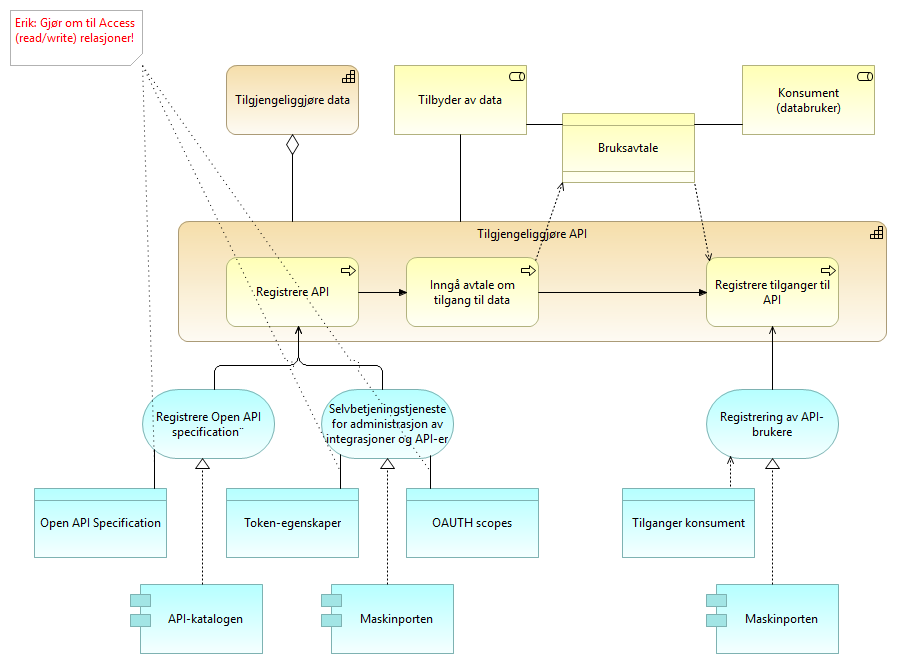
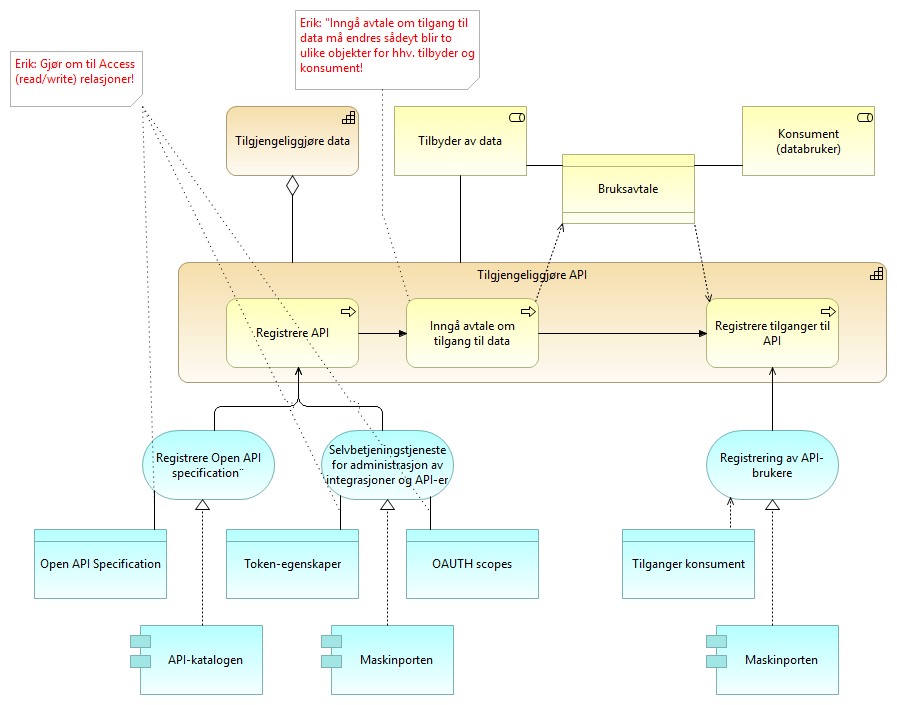
.

diff --git a/nab_modeller_html-hovedbibliotek/e7e6c527-26f4-461c-b4dd-651fcbe85c8d/views/80c1baa6-55d8-4434-ab14-55e2d0afa827.html b/nab_modeller_html-hovedbibliotek/e7e6c527-26f4-461c-b4dd-651fcbe85c8d/views/80c1baa6-55d8-4434-ab14-55e2d0afa827.html
@@ -34,26 +34,27 @@
 		    <!-- If this is a digram model (has children and no bounds) show the image -->
 			   <img class="diagram" src="../images/80c1baa6-55d8-4434-ab14-55e2d0afa827.png" alt="Etablere API i maskinporten SBB" usemap="#80c1baa6-55d8-4434-ab14-55e2d0afa827map"/>
 			   <map name="80c1baa6-55d8-4434-ab14-55e2d0afa827map">
-				  		<area shape="rect" coords="394,65,527,135" href="../elements/9fa622a6-945e-4e85-815f-d38a47a3459d.html"  target="element">
-				  		<area shape="rect" coords="742,65,875,135" href="../elements/ba734a82-6ccd-4627-9717-baef9900ae13.html"  target="element">
-				  		<area shape="rect" coords="562,113,695,183" href="../elements/3797e3fd-6fa2-4d70-ac19-faddd5065e87.html"  target="element">
-				  		<area shape="rect" coords="142,389,275,459" href="../elements/fc699973-2737-4319-ae75-9839ceb74181.html"  target="element">
-				  		<area shape="rect" coords="706,584,839,654" href="../elements/d242a840-0fa2-4f8d-997c-2298194f1c4a.html"  target="element">
-				  		<area shape="rect" coords="321,389,454,459" href="../elements/7e04dd29-d1b6-420b-96cb-d26eaf784083.html"  target="element">
-				  		<area shape="rect" coords="706,389,839,459" href="../elements/c43f2df1-ab1e-4b8a-8230-f96fe1375cfc.html"  target="element">
-				  		<area shape="rect" coords="130,584,263,654" href="../elements/38606b9d-5fdf-4dff-9839-5e1d03107b99.html"  target="element">
-				  				<area shape="rect" coords="226,257,359,327" href="../elements/401e79ba-83e5-4aec-9f55-66e228109fbd.html"  target="element">
-				  				<area shape="rect" coords="706,257,839,327" href="../elements/d67047b1-ac0f-406a-b26b-00c5126bb154.html"  target="element">
-				  				<area shape="rect" coords="406,257,539,327" href="../elements/bb9600f7-587d-423e-85a3-4215e45f09e4.html"  target="element">
+				  		<area shape="rect" coords="394,106,527,176" href="../elements/9fa622a6-945e-4e85-815f-d38a47a3459d.html"  target="element">
+				  		<area shape="rect" coords="742,106,875,176" href="../elements/ba734a82-6ccd-4627-9717-baef9900ae13.html"  target="element">
+				  		<area shape="rect" coords="562,154,695,224" href="../elements/3797e3fd-6fa2-4d70-ac19-faddd5065e87.html"  target="element">
+				  		<area shape="rect" coords="142,430,275,500" href="../elements/fc699973-2737-4319-ae75-9839ceb74181.html"  target="element">
+				  		<area shape="rect" coords="706,625,839,695" href="../elements/d242a840-0fa2-4f8d-997c-2298194f1c4a.html"  target="element">
+				  		<area shape="rect" coords="321,430,454,500" href="../elements/7e04dd29-d1b6-420b-96cb-d26eaf784083.html"  target="element">
+				  		<area shape="rect" coords="706,430,839,500" href="../elements/c43f2df1-ab1e-4b8a-8230-f96fe1375cfc.html"  target="element">
+				  		<area shape="rect" coords="130,625,263,695" href="../elements/38606b9d-5fdf-4dff-9839-5e1d03107b99.html"  target="element">
+				  				<area shape="rect" coords="226,298,359,368" href="../elements/401e79ba-83e5-4aec-9f55-66e228109fbd.html"  target="element">
+				  				<area shape="rect" coords="706,298,839,368" href="../elements/d67047b1-ac0f-406a-b26b-00c5126bb154.html"  target="element">
+				  				<area shape="rect" coords="406,298,539,368" href="../elements/bb9600f7-587d-423e-85a3-4215e45f09e4.html"  target="element">
 
-				  		<area shape="rect" coords="178,221,887,342" href="../elements/eecb9abf-d38f-48b3-92fc-2e91c1f73274.html"  target="element">
-				  		<area shape="rect" coords="226,65,359,135" href="../elements/b2629945-0e02-4008-8db4-d6cc7f8d34a3.html"  target="element">
-				  		<area shape="rect" coords="226,488,359,558" href="../elements/a609d863-ca5c-4cc8-896b-aba92c4a5786.html"  target="element">
-				  		<area shape="rect" coords="406,488,539,558" href="../elements/743ee89e-49b3-4b4b-b93b-c7e6f4e0700f.html"  target="element">
-				  		<area shape="rect" coords="622,488,755,558" href="../elements/fe0abe56-0a07-400f-86de-ea57a0f8079b.html"  target="element">
-				  		<area shape="rect" coords="34,488,167,558" href="../elements/90106e3a-d9f4-4817-ab38-473efc7f1aac.html"  target="element">
-				          <area shape="rect" coords="10,10,143,66" href="../objects/48e0c3bf-d94d-483a-9438-36f710e90a9c.html" target="element" >
-				  		<area shape="rect" coords="321,584,454,654" href="../elements/d242a840-0fa2-4f8d-997c-2298194f1c4a.html"  target="element">
+				  		<area shape="rect" coords="178,262,887,383" href="../elements/eecb9abf-d38f-48b3-92fc-2e91c1f73274.html"  target="element">
+				  		<area shape="rect" coords="226,106,359,176" href="../elements/b2629945-0e02-4008-8db4-d6cc7f8d34a3.html"  target="element">
+				  		<area shape="rect" coords="226,529,359,599" href="../elements/a609d863-ca5c-4cc8-896b-aba92c4a5786.html"  target="element">
+				  		<area shape="rect" coords="406,529,539,599" href="../elements/743ee89e-49b3-4b4b-b93b-c7e6f4e0700f.html"  target="element">
+				  		<area shape="rect" coords="622,529,755,599" href="../elements/fe0abe56-0a07-400f-86de-ea57a0f8079b.html"  target="element">
+				  		<area shape="rect" coords="34,529,167,599" href="../elements/90106e3a-d9f4-4817-ab38-473efc7f1aac.html"  target="element">
+				          <area shape="rect" coords="10,51,143,107" href="../objects/48e0c3bf-d94d-483a-9438-36f710e90a9c.html" target="element" >
+				  		<area shape="rect" coords="321,625,454,695" href="../elements/d242a840-0fa2-4f8d-997c-2298194f1c4a.html"  target="element">
+				          <area shape="rect" coords="295,10,480,90" href="../objects/116646da-014d-4fc4-814f-dfc335ce3a0e.html" target="element" >
 
 			   </map>
 
@@ -195,6 +196,11 @@
 											    <td> <a href="../elements/d242a840-0fa2-4f8d-997c-2298194f1c4a.html" target="element" class="i18n-elementtype-ApplicationComponent"> </a> </td>
 											</tr>
 
+									        <tr>
+									           <td> <a href="../objects/116646da-014d-4fc4-814f-dfc335ce3a0e.html" target="element">  </a> </td>
+									           <td> <a href="../objects/116646da-014d-4fc4-814f-dfc335ce3a0e.html" target="element" class="i18n-elementtype-DiagramModelNote"> </a> </td>
+									        </tr>
+
 
 								</tbody>
 							</table>
@@ -335,6 +341,7 @@
 																		<td> <a href="../elements/7e04dd29-d1b6-420b-96cb-d26eaf784083.html" target="element"> Selvbetjeningstjeneste for administrasjon av integrasjoner og API-er </a> </td>
 																	</tr>
 
+											<!-- DEBUG: Skipping element from class com.archimatetool.model.impl.DiagramModelNote -->
 
 								</tbody>
 							</table>

diff --git a/nab_modeller_html-hovedbibliotek/e7e6c527-26f4-461c-b4dd-651fcbe85c8d/views/5a43e372-cf45-491f-a5e9-514d83e1e259.html b/nab_modeller_html-hovedbibliotek/e7e6c527-26f4-461c-b4dd-651fcbe85c8d/views/5a43e372-cf45-491f-a5e9-514d83e1e259.html
@@ -35,8 +35,8 @@
 			   <img class="diagram" src="../images/5a43e372-cf45-491f-a5e9-514d83e1e259.png" alt="Avgi forespurte data SBB" usemap="#5a43e372-cf45-491f-a5e9-514d83e1e259map"/>
 			   <map name="5a43e372-cf45-491f-a5e9-514d83e1e259map">
 				  		<area shape="rect" coords="214,10,347,80" href="../elements/9fa622a6-945e-4e85-815f-d38a47a3459d.html"  target="element">
-				  		<area shape="rect" coords="370,274,503,344" href="../elements/d242a840-0fa2-4f8d-997c-2298194f1c4a.html"  target="element">
-				  		<area shape="rect" coords="214,274,347,344" href="../elements/6d908f89-0a8f-4ba1-aeb4-b3e9f27e75e6.html"  target="element">
+				  		<area shape="rect" coords="202,382,335,452" href="../elements/d242a840-0fa2-4f8d-997c-2298194f1c4a.html"  target="element">
+				  		<area shape="rect" coords="202,274,335,344" href="../elements/6d908f89-0a8f-4ba1-aeb4-b3e9f27e75e6.html"  target="element">
 				  		<area shape="rect" coords="382,10,515,80" href="../elements/f22a6c6b-db56-4bf5-81d4-53e55a9b2c92.html"  target="element">
 				  				<area shape="rect" coords="370,154,503,224" href="../elements/71a4a1e2-d637-48bb-b847-5bb23cbbbef9.html"  target="element">
 				  				<area shape="rect" coords="202,154,335,224" href="../elements/6b298315-cf49-4dea-b154-79ae4a79fd7e.html"  target="element">
